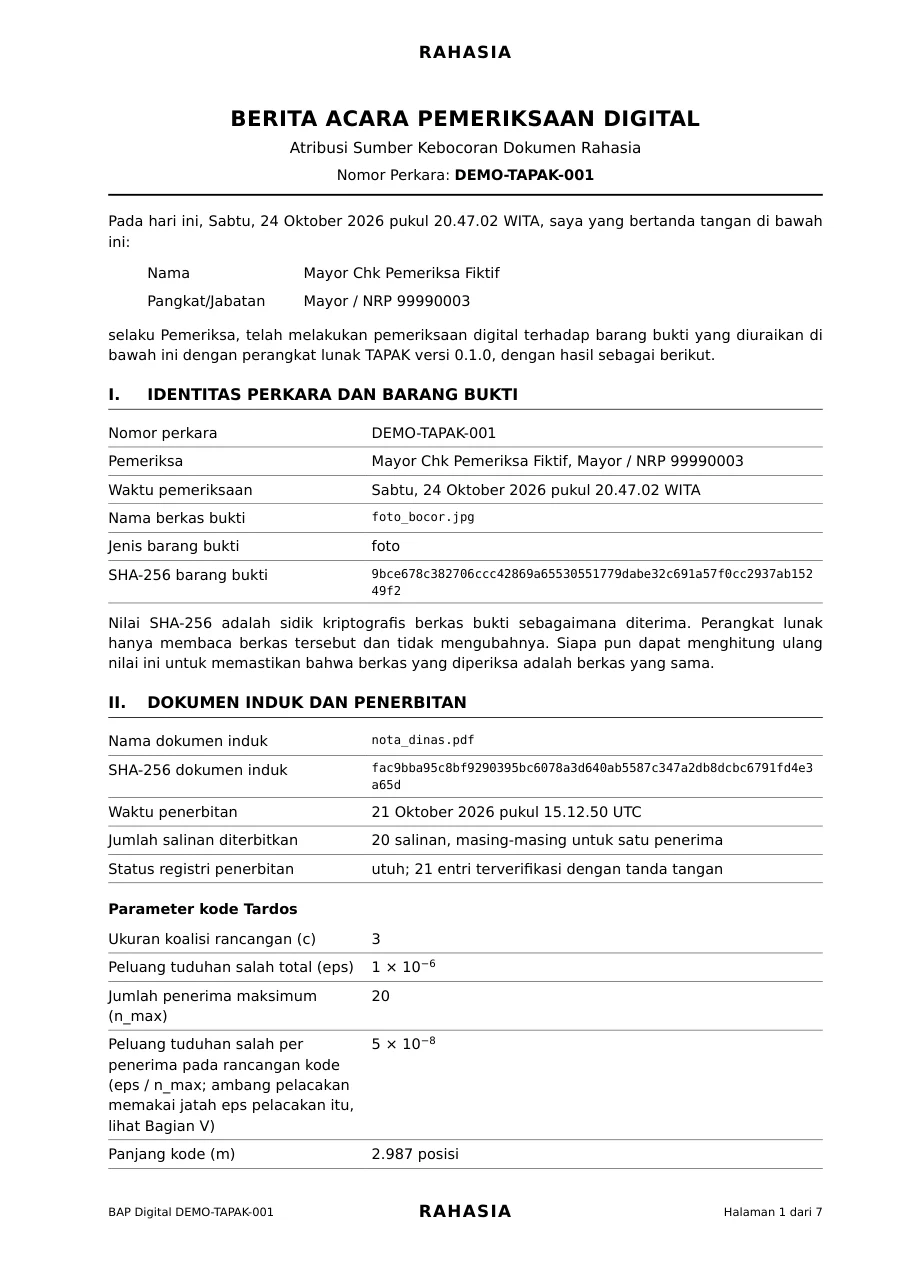
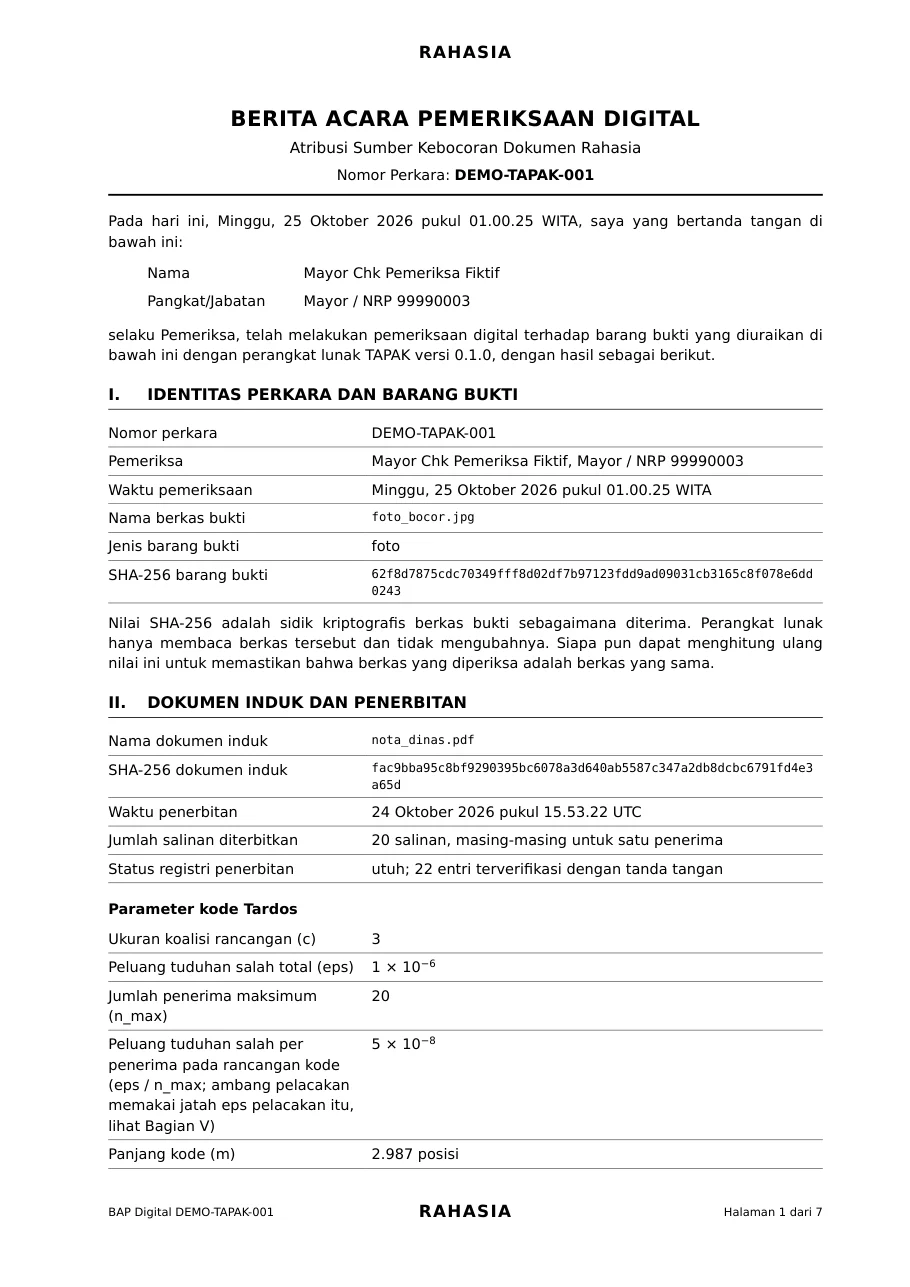
Landing numbers from every held-out set; docs for the partial-photo study
tapak/web/landing.json is written again from the final results: 6,148 held-out traces of
four studies without a false accusation, prints on one page 10 of 16, a new bar for phone
photos cropped and scaled down (561 of 800 named, research/fotopotong), and the hero trace
of the README flow figure (score 1,277.2 over 298.3). How it works and security describe
the footprint try, what it found and did not name, and the faster refusals.

Claude-Session: https://claude.ai/code/session_01HnkNsjn73JodyUdF1qmNUt

diff --git a/tapak/web/templates/landing.html b/tapak/web/templates/landing.html
@@ -274,7 +274,9 @@
           <h4 class="ld-panel-sub">Uji benchmark: foto dan cetakan sintetis</h4>
           {{ batang_media(angka.media[:5]) }}
           <h4 class="ld-panel-sub">Studi registrasi: bukti sebagian dan buram, set uji tertahan</h4>
-          {{ batang_media(angka.media[5:]) }}
+          {{ batang_media(angka.media[5:9]) }}
+          <h4 class="ld-panel-sub">Studi foto yang dipotong pembocor, set uji tertahan</h4>
+          {{ batang_media(angka.media[9:]) }}
         </article>
 
         <article class="ld-panel">

diff --git a/docs/figures/fig_landing.py b/docs/figures/fig_landing.py
@@ -6,7 +6,8 @@ reads them and writes ``tapak/web/landing.json``, which the page draws its chart
 * ``pemisahan``: the accusation scores of fig_hasil.py (N=100, c=3, eps=1e-6, 1000 trials,
   seed 2026, every collusion strategy) binned over the threshold, innocents and members apart;
 * ``media``: verdicts per kind of evidence, from the README benchmark
-  (docs/results/bench_photos.json) and the held-out run of research/registrasi;
+  (docs/results/bench_photos.json) and the held-out runs of research/registrasi and
+  research/fotopotong;
 * ``batas``: the false-accusation bound of the README benchmark per set (median and worst);
 * ``uji``: honest held-out traces of the studies and how many named someone else.
 
@@ -80,16 +81,31 @@ def media_and_bounds() -> tuple[list, list]:
         after = reg[key]["sesudah"]
         media.append({"label": label, "benar": after["disebut"], "n": reg[key]["n"], "salah": after["tuduhan_salah"],
                       "sumber": "research/registrasi/hasil/ringkas_uji.json"})
+    crops = [r for r in _jsonl("research/fotopotong/hasil/uji.jsonl") if not r["silang"] and r["scale"] < 1.0]
+    media.append({"label": "Foto ponsel dipotong lalu diperkecil", "n": len(crops),
+                  "benar": sum(1 for r in crops if (r.get("lacak_sesudah") or {}).get("verdict") == "benar"),
+                  "salah": sum(1 for r in crops if (r.get("lacak_sesudah") or {}).get("verdict") == "salah"),
+                  "sumber": "research/fotopotong/hasil/uji.jsonl"})
     return media, bounds
 
 
+def _jsonl(rel: str) -> list[dict]:
+    return [json.loads(x) for x in (ROOT / rel).read_text(encoding="utf-8").splitlines() if x.strip()]
+
+
 def honest_traces() -> dict:
-    kal = [json.loads(x) for x in (ROOT / "research" / "kalibrasi" / "hasil" / "uji.jsonl").read_text().splitlines()
-           if x.strip()]
+    """Held-out traces of the studies (each run once after its rules were fixed) and how many
+    named someone who did not leak."""
+    kal = _jsonl("research/kalibrasi/hasil/uji.jsonl")
+    geser = _jsonl("research/geser/hasil/uji.jsonl")
+    crops = [r["lacak_sesudah"] for r in _jsonl("research/fotopotong/hasil/uji.jsonl") if r.get("lacak_sesudah")]
     reg = json.loads((ROOT / "research" / "registrasi" / "hasil" / "ringkas_uji.json").read_text())
     reg_wrong = sum(v["sesudah"]["tuduhan_salah"] for v in reg["per_jenis"].values())
-    return {"n": len(kal) + reg["traces"], "tuduhan_salah": sum(bool(r["salah"]) for r in kal) + reg_wrong,
-            "sumber": ["research/kalibrasi/hasil/uji.jsonl", "research/registrasi/hasil/ringkas_uji.json"]}
+    return {"n": len(kal) + reg["traces"] + len(geser) + len(crops),
+            "tuduhan_salah": sum(bool(r["salah"]) for r in kal + geser) + reg_wrong
+            + sum(1 for v in crops if v["verdict"] == "salah"),
+            "sumber": ["research/kalibrasi/hasil/uji.jsonl", "research/registrasi/hasil/ringkas_uji.json",
+                       "research/geser/hasil/uji.jsonl", "research/fotopotong/hasil/uji.jsonl"]}
 
 
 def example_and_pictures() -> dict | None:

diff --git a/docs/keamanan.md b/docs/keamanan.md
@@ -181,7 +181,7 @@ Ringkasan dulu, rinciannya di bawah dengan nomor yang sama. Semua angka foto dan
      Di bawah batas itu halaman tidak ditemukan: setiap kegagalan halaman utuh adalah registrasi yang gagal pada 28 sampai 32 dpi (Splash tanpa anti-aliasing sampai 48 dpi), dan setiap halaman yang ditemukan disebut, dengan skor paling kecil 1,9 kali ambang dan batas peluang tuduhan salah paling besar 10^-19,5. Putusan datang dari pola latar: dengan kanal latar saja hasilnya sama di setiap sel. Skema v1 (dokumen lama) memberi batas semua kanal yang sama (28 sampai 32 dpi), tetapi kanal gesernya tidak pernah cukup sendirian. Tidak ada tuduhan salah dalam 2.346 pelacakan, termasuk 192 pelacakan induk tanpa tanda (skor tak bersalah tertinggi 0,64 ambang). Batas geser saja dekat ambang (skor geser saja median 1,2 kali ambang pada 84 sampai 150 dpi), jadi bergeser antarbenih: pengulangan dengan benih baru saat peninjauan (4 tangkapan per sel) memberi MuPDF 96 / 96 / tidak pernah dan Splash 120 / 120 / tidak pernah, sedangkan batas semua kanal sama atau lebih rendah ([README studi](../research/layar/README.md#pengulangan-dengan-benih-baru-peninjauan)). Tabel ini diukur sebelum tahap penyelamat registrasi. Dengan tahap itu (`research/registrasi/`, set uji baru, 8 tangkapan per sel), setiap halaman utuh pada 24 sampai 48 dpi ditemukan dan disebut, untuk keempat penggambar dan setiap format, termasuk pesan Splash tanpa anti-aliasing ([registrasi](cara-kerja.md#registrasi-bukti-gambar)).
    * **Penyebabnya terukur** (`research/layar/kuantisasi.py`). MuPDF dan Splash meletakkan garis dasar setiap baris pada piksel utuh, Cairo pada seperempat piksel. Geser baris 0,05 mm adalah 0,08 sampai 0,3 piksel pada 40 sampai 150 dpi, jadi geser itu hilang dibulatkan atau memindahkan baris satu langkah kisi (satu piksel, pada Cairo seperempat piksel). Dari sekitar 20 baris data halaman 1, tangkapan PNG MuPDF dan Splash membaca rata-rata 1,5 sampai 4,4 dengan abs LLR paling sedikit 2 pada 28 sampai 48 dpi dan 5 sampai 9 dari 56 dpi; Cairo 10 dan 18 sampai 20. Glif diletakkan pada seperempat piksel horizontal, jadi geser kelompok kata (0,025 mm) hanya tersisa sebagai rata-rata pembulatan glifnya: bit kata salah 33 sampai 36 % pada 28 sampai 48 dpi, 13 sampai 15 % pada 56 sampai 84 dpi (tangkapan yang diperkecil 8 sampai 9 %), dan 1 sampai 3 % dari 96 dpi. Splash tanpa anti-aliasing meletakkan glif pada piksel utuh, jadi bit katanya salah 25 sampai 46 % di setiap resolusi. Pada kerapatan tinggi penggambar berhenti memakai subpiksel: Splash meletakkan glif 11 pt pada piksel utuh pada 225 dpi dan MuPDF pada setengah piksel mulai 180 dpi, sehingga tangkapan Poppler yang digambar 1,5 kali lebih rapat lalu diperkecil ke 120 dan 150 dpi hanya menyebut salinan lewat geser pada 4 dari 24.
    * **Dekoder baris diperbaiki** (dipilih pada set pengembangan dengan aturan yang ditetapkan lebih dulu, diukur pada set uji dengan pengukuran yang sama). Dekoder lama membaca pembulatan baris tetangga sebagai tanda dan membuang baris yang pindah satu piksel sebagai pencilan: bit baris berbobot di atas 0,95 salah 5,4 % (terkalibrasi 0,5 %). Kini baris kontrol menunjukkan apakah garis dasar halaman jatuh pada kisi piksel utuh atau seperempat piksel gambar (tangkapan yang tidak diskalakan); bila ya, baris dibaca dengan model kisi, dan geser yang hilang dibulatkan menjadi terhapus, bukan salah baca. Pada set uji: bit baris yang salah dengan yakin (abs LLR paling sedikit 4) turun dari 470 menjadi 243 (Splash, dengan dan tanpa anti-aliasing, 149 menjadi 0); baris yang dibaca model kisi terkalibrasi (8.458 baris berbobot di atas 0,95, 2 salah); putusan kanal geser saja benar 542 kali (lama 516; 27 bertambah, 1 hilang); putusan semua kanal sama; 0 tuduhan salah. Dokumen lama (skema v1) mendapat putusan yang sama, dengan bit baris salah yakin 135 menjadi 79.
-   * **Yang tersisa.** Baris yang tidak lolos gerbang tetap memakai model Gaussian dan tetap terlalu yakin: tangkapan yang diskalakan ulang (diperkecil, juga pesan 150 dpi yang dibatasi 1600 px), MuPDF di bawah 56 dpi (setengah pikselnya tidak rata; pada 28 sampai 48 dpi bit baris dengan abs LLR paling sedikit 2 salah 24 sampai 27 %), dan Cairo di bawah 64 dpi (gerbang tidak pernah terbuka pada 28 sampai 40 dpi dan jarang pada 56 dpi, PNG maupun JPEG; pada 28 sampai 48 dpi salah 14 sampai 18 %). Bit kata di bawah 56 dpi terlalu yakin (bobot di atas 0,95 salah 4,4 %, terkalibrasi 0,9 %); dari 56 dpi ke atas mendekati terkalibrasi (0,4 % dan 0,2 %). Bobot pola latar, yang menentukan putusan, terlalu yakin di kelompok tertinggi setelah JPEG: bobot di atas 0,95 salah 1,8 % pada 28 sampai 48 dpi (terkalibrasi 0,7 %), 0,9 % pada 56 sampai 84 dpi (0,2 %), dan 0,5 % dari 96 dpi (0,1 %); pada PNG 0,1 % (terkalibrasi di bawah 0,05 %). Sejak `research/kalibrasi/` model derau latar memperhitungkan jarak setiap sel ke teks induk, dan pada set uji studi itu bobot tersebut terkalibrasi di setiap medium tangkapan (lewat aplikasi pesan 0,50 % terhadap 0,43 % pada 28 sampai 48 dpi, 0,062 % terhadap 0,076 % pada 56 sampai 84 dpi, 0,009 % terhadap 0,013 % dari 96 dpi), dan bacaan gabungan tangkapan dari penggambar sungguhan tidak lagi terlalu yakin secara bermakna, kecuali PNG di bawah 56 dpi lewat kelompok kata ([butir 12](#batasan-12)). Batas tuduhan salah tidak bergantung pada kalibrasi bobot. Pada jendela penampil yang hanya memperlihatkan bagian tengah halaman (55 % tingginya), halaman tidak ditemukan pada 60 dari 120 tangkapan sebelum tahap penyelamat registrasi; jendela dari atas halaman ditemukan 120 dari 120, dan setiap halaman yang ditemukan disebut. Dengan tahap penyelamat (set uji `research/registrasi/`), potongan dari tengah halaman, 25 sampai 85 % tingginya, disebut pada 317 dari 400 (sebelumnya 227), dari bawah halaman 394 dari 400 (207), dan satu paragraf 161 dari 240 (130), tanpa tuduhan salah dalam 3.432 pelacakan. Yang tetap tidak ditemukan terutama bagian halaman tanpa teks induk. Potongan yang hanya memuat kaki halaman dapat diregistrasi pada dokumen lain yang kaki halamannya sama (9 dari 271 pelacakan terhadap dokumen lain); tidak ada yang disebut, tetapi jawabannya "tidak cukup bukti", bukan "halaman tidak ditemukan". Bukti yang tetap tidak ditemukan kini memerlukan lebih lama, sampai sekitar 3 menit di mesin yang sibuk. PDF.js, PDFium, Adobe Reader, pengaturan hinting Okular, layar ponsel sungguhan, dan aplikasi pesan sungguhan belum diuji.
+   * **Yang tersisa.** Baris yang tidak lolos gerbang tetap memakai model Gaussian dan tetap terlalu yakin: tangkapan yang diskalakan ulang (diperkecil, juga pesan 150 dpi yang dibatasi 1600 px), MuPDF di bawah 56 dpi (setengah pikselnya tidak rata; pada 28 sampai 48 dpi bit baris dengan abs LLR paling sedikit 2 salah 24 sampai 27 %), dan Cairo di bawah 64 dpi (gerbang tidak pernah terbuka pada 28 sampai 40 dpi dan jarang pada 56 dpi, PNG maupun JPEG; pada 28 sampai 48 dpi salah 14 sampai 18 %). Bit kata di bawah 56 dpi terlalu yakin (bobot di atas 0,95 salah 4,4 %, terkalibrasi 0,9 %); dari 56 dpi ke atas mendekati terkalibrasi (0,4 % dan 0,2 %). Bobot pola latar, yang menentukan putusan, terlalu yakin di kelompok tertinggi setelah JPEG: bobot di atas 0,95 salah 1,8 % pada 28 sampai 48 dpi (terkalibrasi 0,7 %), 0,9 % pada 56 sampai 84 dpi (0,2 %), dan 0,5 % dari 96 dpi (0,1 %); pada PNG 0,1 % (terkalibrasi di bawah 0,05 %). Sejak `research/kalibrasi/` model derau latar memperhitungkan jarak setiap sel ke teks induk, dan pada set uji studi itu bobot tersebut terkalibrasi di setiap medium tangkapan (lewat aplikasi pesan 0,50 % terhadap 0,43 % pada 28 sampai 48 dpi, 0,062 % terhadap 0,076 % pada 56 sampai 84 dpi, 0,009 % terhadap 0,013 % dari 96 dpi), dan bacaan gabungan tangkapan dari penggambar sungguhan tidak lagi terlalu yakin secara bermakna, kecuali PNG di bawah 56 dpi lewat kelompok kata ([butir 12](#batasan-12)). Batas tuduhan salah tidak bergantung pada kalibrasi bobot. Pada jendela penampil yang hanya memperlihatkan bagian tengah halaman (55 % tingginya), halaman tidak ditemukan pada 60 dari 120 tangkapan sebelum tahap penyelamat registrasi; jendela dari atas halaman ditemukan 120 dari 120, dan setiap halaman yang ditemukan disebut. Dengan tahap penyelamat (set uji `research/registrasi/`), potongan dari tengah halaman, 25 sampai 85 % tingginya, disebut pada 317 dari 400 (sebelumnya 227), dari bawah halaman 394 dari 400 (207), dan satu paragraf 161 dari 240 (130), tanpa tuduhan salah dalam 3.432 pelacakan. Yang tetap tidak ditemukan terutama bagian halaman tanpa teks induk. Potongan yang hanya memuat kaki halaman dapat diregistrasi pada dokumen lain yang kaki halamannya sama (9 dari 271 pelacakan terhadap dokumen lain); tidak ada yang disebut, tetapi jawabannya "tidak cukup bukti", bukan "halaman tidak ditemukan". Bukti yang tetap tidak ditemukan memerlukan lebih lama daripada yang ditemukan; sejak `research/fotopotong/` pekerjaan registrasi yang sama dihitung sekali dan percobaan tahap penyelamat berjalan berdampingan, dan penolakan kasus peninjauan turun dari median 39,5 menjadi 18,3 detik. Foto halaman yang dipotong lalu diperkecil sampai sepertiganya (35 sampai 60 dpi) kini lebih sering ditemukan lewat percobaan jejak tahap penyelamat ([registrasi](cara-kerja.md#registrasi-bukti-gambar)). PDF.js, PDFium, Adobe Reader, pengaturan hinting Okular, layar ponsel sungguhan, dan aplikasi pesan sungguhan belum diuji.
 6. <a id="batasan-6"></a>**Lawan yang paham TAPAK dapat menghapus bukti, tetapi tidak dapat memfitnah.** Kode TAPAK terbuka; hanya kuncinya yang rahasia.
    * **Kanal teks.** Simbol lebar-nol dan huruf Kiril dapat dibersihkan atau diubah. Pencarian frasa lintas kata di penampil PDF dapat gagal pada salinan bertanda; pencarian satu kata tetap berfungsi.
    * **Pola latar** adalah satu gambar di bawah teks setiap halaman PDF. Gambar itu dapat dibuang, atau dibaca sel demi sel tanpa kunci.

diff --git a/docs/cara-kerja.md b/docs/cara-kerja.md
@@ -771,7 +771,9 @@ Registrasi (`tapak/decoder/rectify.py`) menemukan halaman induk pada foto atau t
 | Satu paragraf | 130 -> 161 dari 240 (ditemukan 146 -> 237) |
 | Foto ponsel sebagian halaman | 168 -> 171 dari 208 |
 
-437 salinan baru disebut dan tidak ada yang hilang. Tidak ada tuduhan salah dalam 3.432 pelacakan, termasuk induk tanpa tanda dan 271 pelacakan terhadap dokumen yang lain, dan tidak ada peringatan baru pada bukti jujur. Dari 520 registrasi tahap penyelamat, 9 salah dokumen: potongan yang hanya memuat kaki halaman, yang sama persis di kedua dokumen contoh, diregistrasi pada dokumen yang lain; tidak ada bit pola latar yang terbaca dan jawabannya "tidak cukup bukti". Waktu per pelacakan naik dari median 6,6 menjadi 9,0 detik (bila tahap penyelamat berjalan median 14 detik, persentil ke-95 80 detik, di mesin yang dipakai bersama). Yang tetap tidak ditemukan: bagian halaman tanpa teks induk, dan sebagian besar foto ponsel sebagian halaman yang gagal (pencocokan templat tidak mencari perspektif).
+437 salinan baru disebut dan tidak ada yang hilang. Tidak ada tuduhan salah dalam 3.432 pelacakan, termasuk induk tanpa tanda dan 271 pelacakan terhadap dokumen yang lain, dan tidak ada peringatan baru pada bukti jujur. Dari 520 registrasi tahap penyelamat, 9 salah dokumen: potongan yang hanya memuat kaki halaman, yang sama persis di kedua dokumen contoh, diregistrasi pada dokumen yang lain; tidak ada bit pola latar yang terbaca dan jawabannya "tidak cukup bukti". Waktu per pelacakan naik dari median 6,6 menjadi 9,0 detik (bila tahap penyelamat berjalan median 14 detik, persentil ke-95 80 detik, di mesin yang dipakai bersama). Yang tetap tidak ditemukan: bagian halaman tanpa teks induk. Foto ponsel sebagian halaman ternyata hampir tidak bergantung pada tahap penyelamat: tahap fitur sudah menemukannya, dan yang gagal hampir semuanya potongan kaki halaman 2 tanpa teks induk.
+
+**Foto yang dipotong lalu diperkecil, dan penolakan yang lebih cepat** (`research/fotopotong/`, [README studi](../research/fotopotong/README.md)). Bila pembocor memotret seluruh halaman lalu memotong satu bagiannya, potongan itu hanya 35 sampai 60 dpi. Di sana SIFT masih menemukan pose awal yang benar sampai satu piksel, tetapi ECC melenceng darinya, juga karena foto yang diperkecil serata tangkapan layar sehingga tahap penyelamat memakai peta afin. Pose awal yang miring kini juga disempurnakan dengan homografi terhadap induk yang dipotong ke jejaknya, lalu melewati verifikasi yang sama. Pada set uji (foto ponsel studi kalibrasi yang tidak dipakai untuk rancangan), potongan pada setengah dan sepertiga ukuran ditemukan 767 menjadi 774 dari 800, dan pose salah pada dokumen yang benar (dari jalur templat yang sudah ada) berkurang dari 5 menjadi 2; 0 potongan diterima pada dokumen lain, dan tidak ada tuduhan salah (0). Salinan yang disebut tetap 919: yang baru ditemukan hampir semuanya paragraf atau potongan kecil yang membawa terlalu sedikit bit, jadi jawabannya tetap "tidak cukup bukti". Pekerjaan yang sama kini dihitung sekali (tinta dan fitur induk disimpan per halaman; tinta, fitur, dan kata OCR bukti sekali per registrasi; hasilnya identik), dan percobaan penyelamat berjalan berdampingan. Penolakan 11 kasus peninjauan registrasi turun dari median 39,5 menjadi 18,3 detik (paling lama 58 menjadi 35 detik), bukti biasa dari median 3,4 menjadi 2,8 detik, dengan keputusan yang sama. Pemeriksaan pose juga tidak lagi gagal dengan galat memori pada pose yang menaruh tengah halaman di luar jangkauan.
 
 ## Kalibrasi bobot pola latar
 
